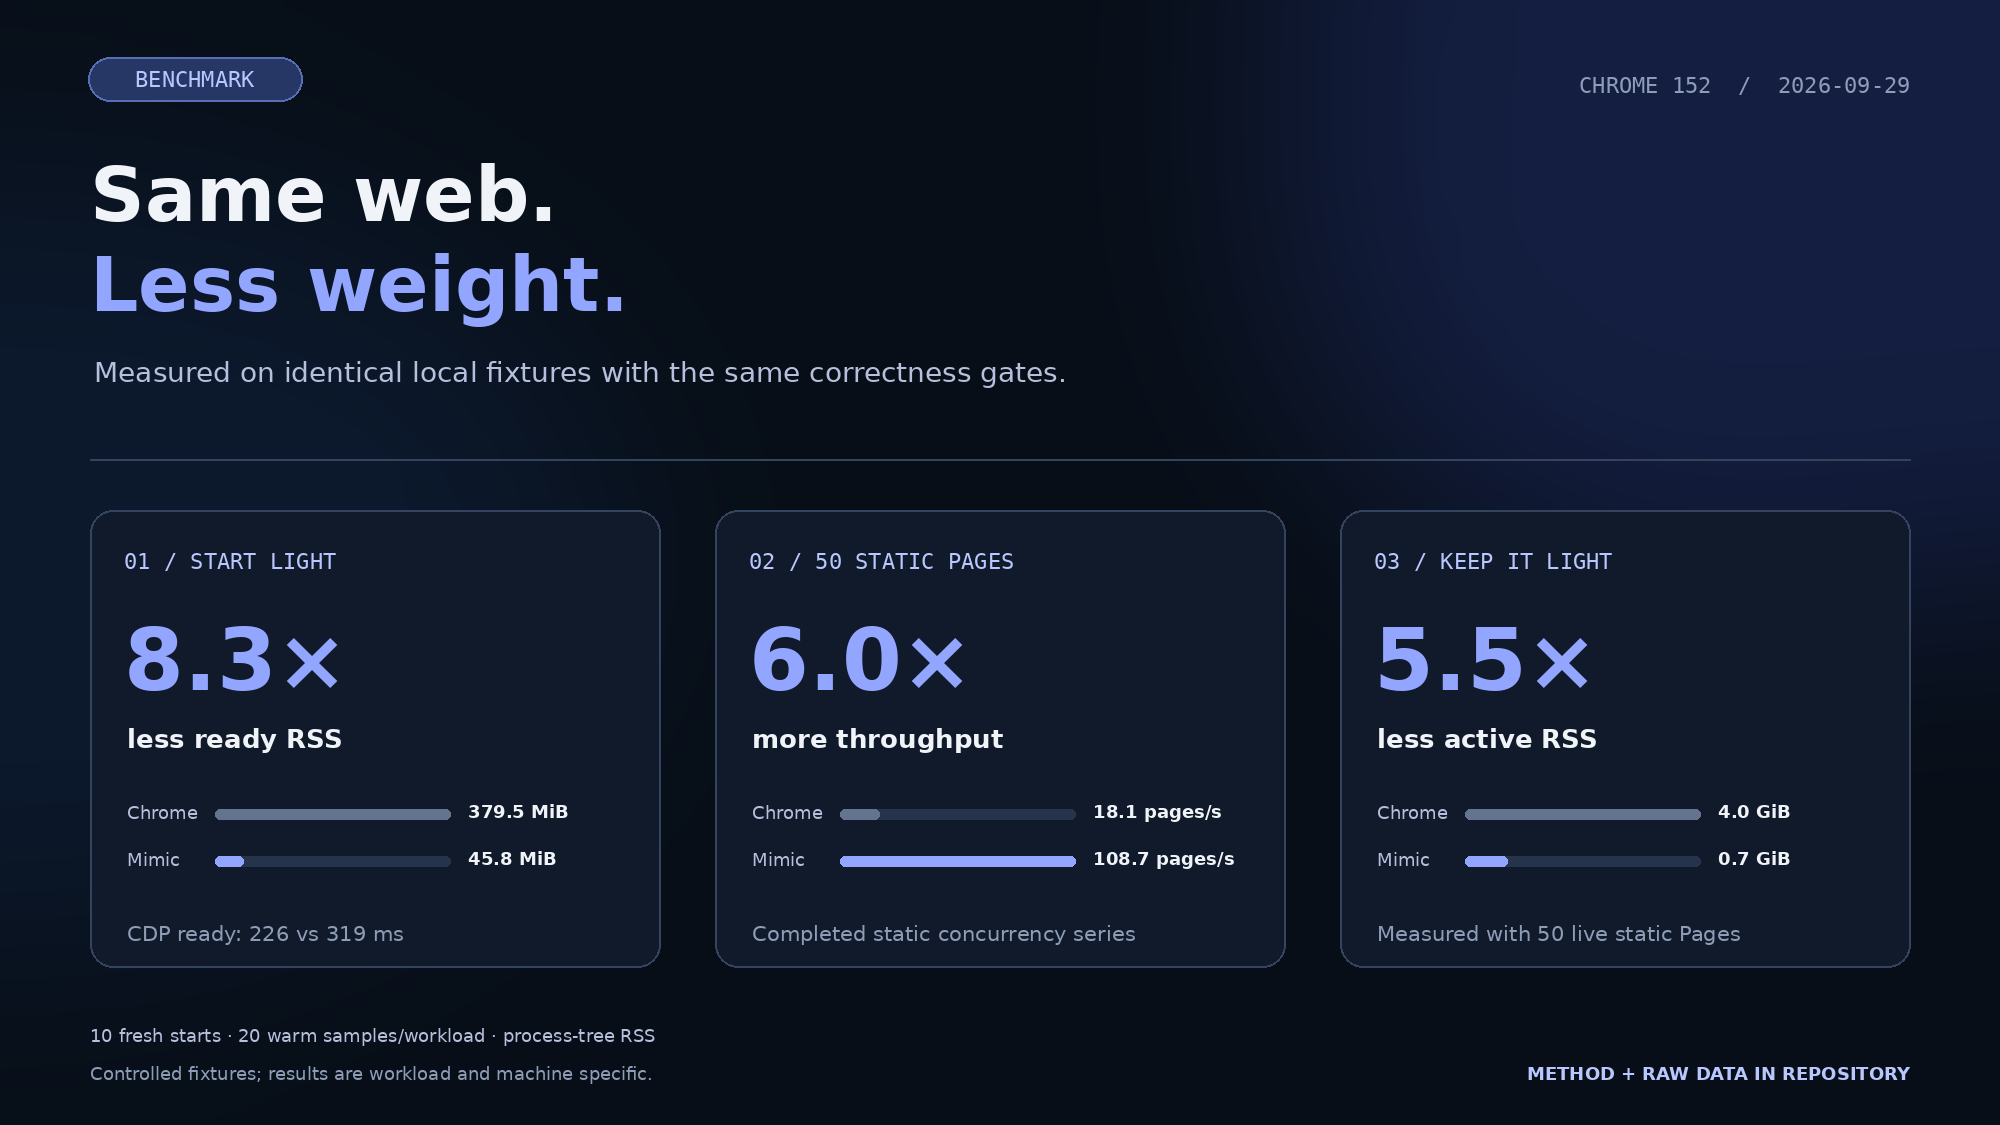
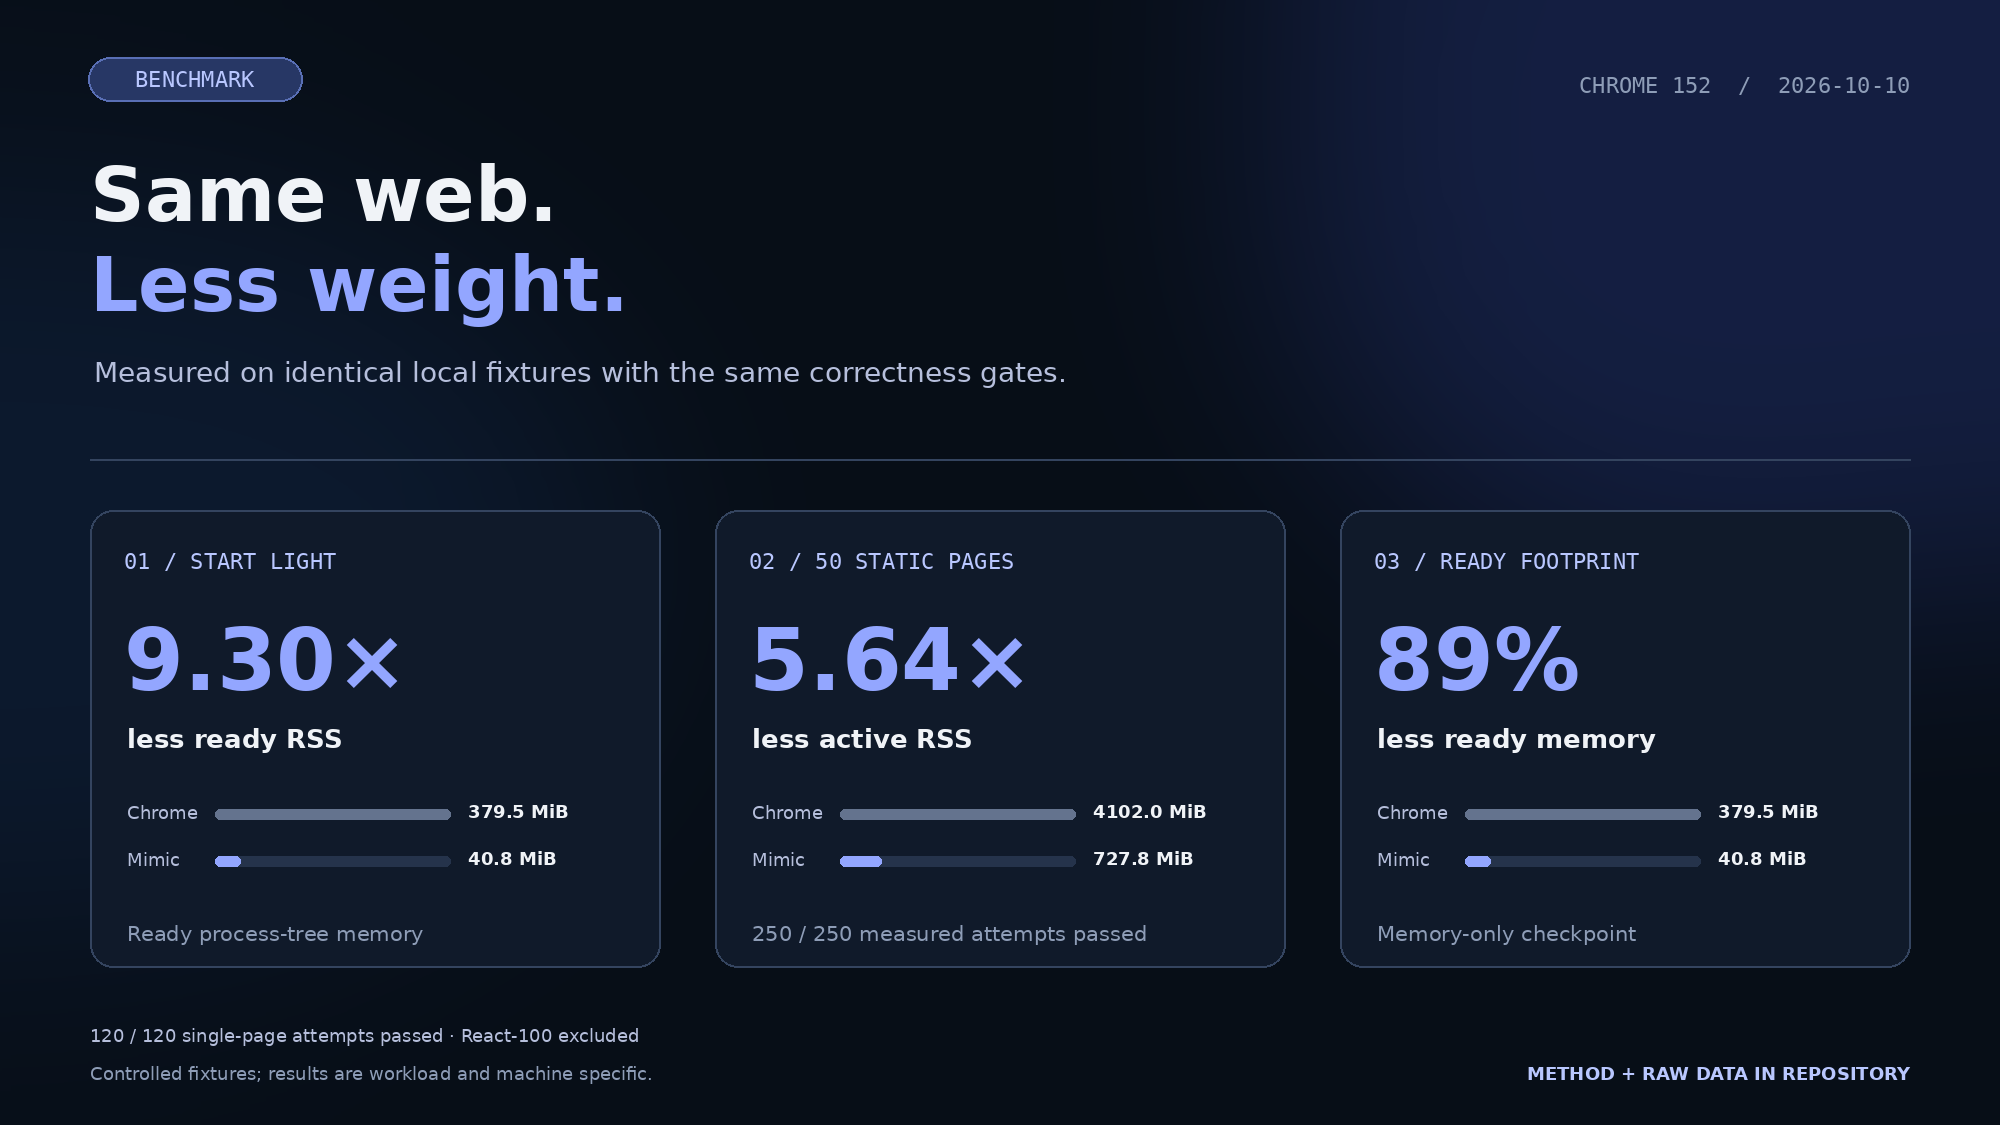
docs(benchmarks): replace current claims across public surfaces

diff --git a/tools/performance/benchmark_story.py b/tools/performance/benchmark_story.py
@@ -1,6 +1,6 @@
 """Render the README benchmark image from a completed benchmark checkpoint.
 
-Only raw.json and summary.json supply measurements. The visual follows the
+Only checkpoint JSON supplies measurements. The visual follows the
 Mimic site's navy, periwinkle and restrained comparison-bar design.
 """
 
@@ -98,7 +98,10 @@ def comparison_bar(draw, x, y, width, mimic_value, chrome_value, font_set, unit)
 
 
 def render(checkpoint, output):
-    raw, summary = validate_checkpoint(checkpoint)
+    memory_path = checkpoint / "public-results.json"
+    memory = load_json(memory_path) if memory_path.exists() else None
+    if memory is None:
+        raw, summary = validate_checkpoint(checkpoint)
     fs = fonts()
     canvas = Image.new("RGB", (2000, 1125), BG)
     glow = Image.new("RGBA", canvas.size, (0, 0, 0, 0))
@@ -108,17 +111,30 @@ def render(checkpoint, output):
     canvas = Image.alpha_composite(canvas.convert("RGBA"), glow.filter(ImageFilter.GaussianBlur(145))).convert("RGB")
     draw = ImageDraw.Draw(canvas)
 
-    date = raw["metadata"]["date"][:10]
-    mimic_ready = startup(raw, "mimic", "cdp_ready_ms")
-    chrome_ready = startup(raw, "chrome", "cdp_ready_ms")
-    mimic_rss = startup(raw, "mimic", "rss_mib")
-    chrome_rss = startup(raw, "chrome", "rss_mib")
-    mc, cc = concurrency(summary, "mimic"), concurrency(summary, "chrome")
-    levels = sorted(set(mc) & set(cc))
-    if not levels:
-        raise ValueError("no common successful static concurrency level")
-    level = max(n for n in levels if n <= 50) if any(n <= 50 for n in levels) else max(levels)
-    mrow, crow = mc[level], cc[level]
+    if memory is not None:
+        date = memory["methodology"]["date"]
+        mimic_rss = memory["ready"]["final_mimic"]
+        chrome_rss = memory["ready"]["september_chrome"]
+        level = 50
+        row = next(
+            r for r in memory["density"]
+            if r["workload"] == "static" and r["n"] == level
+            and not r["failure"] and r["valid"] == r["attempts"]
+        )
+        mrow = {"rss_mib": row["active_rss_mib"]}
+        crow = {"rss_mib": row["september_chrome_rss_mib"]}
+    else:
+        date = raw["metadata"]["date"][:10]
+        mimic_ready = startup(raw, "mimic", "cdp_ready_ms")
+        chrome_ready = startup(raw, "chrome", "cdp_ready_ms")
+        mimic_rss = startup(raw, "mimic", "rss_mib")
+        chrome_rss = startup(raw, "chrome", "rss_mib")
+        mc, cc = concurrency(summary, "mimic"), concurrency(summary, "chrome")
+        levels = sorted(set(mc) & set(cc))
+        if not levels:
+            raise ValueError("no common successful static concurrency level")
+        level = max(n for n in levels if n <= 50) if any(n <= 50 for n in levels) else max(levels)
+        mrow, crow = mc[level], cc[level]
 
     draw.rounded_rectangle((88, 57, 302, 101), radius=22, fill="#273765", outline="#596fb5", width=2)
     text(draw, (195, 79), "BENCHMARK", fs["eyebrow"], BLUE_BRIGHT, anchor="mm")
@@ -131,14 +147,14 @@ def render(checkpoint, output):
     cards = [
         (
             90, 510, 660, 967, "01 / START LIGHT",
-            f"{chrome_rss / mimic_rss:.1f}×", "less ready RSS",
+            f"{chrome_rss / mimic_rss:.2f}×", "less ready RSS",
             mimic_rss, chrome_rss, "MiB",
-            f"CDP ready: {mimic_ready:.0f} vs {chrome_ready:.0f} ms",
+            "Ready process-tree memory" if memory else f"CDP ready: {mimic_ready:.0f} vs {chrome_ready:.0f} ms",
         ),
         (
             715, 510, 1285, 967, f"02 / {level} STATIC PAGES",
-            f"{mrow['throughput'] / crow['throughput']:.1f}×", "more throughput",
-            mrow["throughput"], crow["throughput"], "pages/s",
+            "" if memory else f"{mrow['throughput'] / crow['throughput']:.1f}×", "more throughput",
+            0 if memory else mrow["throughput"], 0 if memory else crow["throughput"], "pages/s",
             "Completed static concurrency series",
         ),
         (
@@ -148,6 +164,19 @@ def render(checkpoint, output):
             f"Measured with {level} live static Pages",
         ),
     ]
+    if memory is not None:
+        cards[1] = (
+            715, 510, 1285, 967, "02 / 50 STATIC PAGES",
+            f"{crow['rss_mib'] / mrow['rss_mib']:.2f}×", "less active RSS",
+            mrow["rss_mib"], crow["rss_mib"], "MiB",
+            f"{row['valid']} / {row['attempts']} measured attempts passed",
+        )
+        cards[2] = (
+            1340, 510, 1910, 967, "03 / READY FOOTPRINT",
+            f"{(1 - mimic_rss / chrome_rss) * 100:.0f}%", "less ready memory",
+            mimic_rss, chrome_rss, "MiB",
+            "Memory-only checkpoint",
+        )
     for x1, y1, x2, y2, heading, metric, label, mimic, chrome, unit, note in cards:
         draw.rounded_rectangle((x1, y1, x2, y2), radius=23, fill=SURFACE, outline=LINE, width=2)
         text(draw, (x1 + 34, y1 + 38), heading, fs["eyebrow"], BLUE_BRIGHT)
@@ -156,7 +185,7 @@ def render(checkpoint, output):
         comparison_bar(draw, x1 + 37, y1 + 292, 235, mimic, chrome, fs, unit)
         text(draw, (x1 + 37, y1 + 411), note, fs["small"], QUIET)
 
-    text(draw, (90, 1025), "10 fresh starts · 20 warm samples/workload · process-tree RSS", fs["tiny"], MUTED)
+    text(draw, (90, 1025), f"{memory['methodology']['single_valid']} / {memory['methodology']['single_attempts']} single-page attempts passed · React-100 excluded" if memory else "10 fresh starts · 20 warm samples/workload · process-tree RSS", fs["tiny"], MUTED)
     text(draw, (90, 1063), "Controlled fixtures; results are workload and machine specific.", fs["tiny"], QUIET)
     text(draw, (1910, 1063), "METHOD + RAW DATA IN REPOSITORY", fs["tiny_bold"], BLUE_BRIGHT, anchor="ra")
 
@@ -164,8 +193,10 @@ def render(checkpoint, output):
     canvas.save(output, optimize=True)
     receipt = {
         "checkpoint": date,
-        "raw_sha256": hashlib.sha256((checkpoint / "raw.json").read_bytes()).hexdigest(),
-        "summary_sha256": hashlib.sha256((checkpoint / "summary.json").read_bytes()).hexdigest(),
+        "source_sha256": {
+            path.name: hashlib.sha256(path.read_bytes()).hexdigest()
+            for path in ([memory_path] if memory else [checkpoint / "raw.json", checkpoint / "summary.json"])
+        },
         "generator_sha256": hashlib.sha256(Path(__file__).read_bytes()).hexdigest(),
         "output_sha256": hashlib.sha256(output.read_bytes()).hexdigest(),
         "concurrency_level": level,

diff --git a/benchmark/runs/14-memory-20261010/public-summary.md b/benchmark/runs/14-memory-20261010/public-summary.md
@@ -4,7 +4,7 @@ Current source with three memory changes, compared with the unchanged October 10
 
 The Windows Job Object runner, frozen local fixtures and 50 ms sampler are reused. Each workload has 20 measured warm single-Page attempts after one excluded warmup. Static, CPU and React density use 1/5/10/25/50/100 Pages, one excluded warmup per process, and max(5, ceil(20/N)) measured waves. Active Pages remain alive until the wave ends. Recovery is 250 ms. RSS sums working sets and can count shared pages more than once.
 
-The memory adapter has a 120 s wave guard rather than the full harness's 180 s guard; this guard was not reached. Per-Page CDP timeout remains 30 s. These memory observations do not replace the published full benchmark or establish general website compatibility.
+The memory adapter has a 120 s wave guard rather than the full harness's 180 s guard; this guard was not reached. Per-Page CDP timeout remains 30 s. This is the current public benchmark. Its scope is memory; it does not certify throughput, cold latency or general website compatibility.
 
 ## Retained-cost changes
 
@@ -16,14 +16,14 @@ These experiments identify retained costs in the current implementation; they ar
 
 ## Ready memory
 
-| Metric | October control Mimic | Final Mimic | September Chrome |
+| Metric | October control Mimic | Final Mimic | Chrome 152 reference |
 |---|---:|---:|---:|
 | rss MiB | 49.00 | 40.80 | 379.54 |
 | private MiB | 104.36 | 95.95 | 174.33 |
 
 ## Warm single-Page sampled peaks
 
-| Workload | Control RSS MiB | Final RSS MiB | September Chrome RSS MiB | Final private MiB | September Chrome private MiB |
+| Workload | Control RSS MiB | Final RSS MiB | Chrome 152 reference RSS MiB | Final private MiB | Chrome 152 reference private MiB |
 |---|---:|---:|---:|---:|---:|
 | static | 139.09 | 145.39 | 1211.70 | 172.38 | 599.05 |
 | cpu | 135.39 | 121.07 | 1403.35 | 163.77 | 778.80 |
@@ -34,9 +34,9 @@ These experiments identify retained costs in the current implementation; they ar
 
 ## Active density memory
 
-An absent historical Chrome comparison means its series was not completed successfully. Diagnostic and failed rows are not used as successful reference measurements.
+An absent Chrome reference comparison means its series was not completed successfully. Diagnostic and failed rows are not used as successful reference measurements.
 
-| Workload | Pages | Control RSS MiB | Final RSS MiB | September Chrome RSS MiB | Final private MiB | Final recovery RSS MiB | Valid / attempts |
+| Workload | Pages | Control RSS MiB | Final RSS MiB | Chrome 152 reference RSS MiB | Final private MiB | Final recovery RSS MiB | Valid / attempts |
 |---|---:|---:|---:|---:|---:|---:|---:|
 | static | 1 | 122.03 | 106.44 | 1210.81 | 150.71 | 88.05 | 20 / 20 |
 | static | 5 | 186.54 | 148.94 | 1373.74 | 206.35 | 85.48 | 25 / 25 |
@@ -72,6 +72,6 @@ React at 100 Pages is not certified: four measured waves passed, then a native a
 
 ## Provenance
 
[2 lines of base64/hex data omitted]
 
 Two subsequent alternating control/candidate pairs completed all ten measured React-100 waves for each binary. The native failure was not reproduced or attributed; these focused repeats do not replace the failed full memory-series record.

diff --git a/docs/performance/report.md b/docs/performance/report.md
@@ -5,20 +5,14 @@ establish a universal speedup over Chrome or complete website compatibility.
 
 ## Published measurements
 
-The [public benchmark checkpoint](../../benchmark/runs/13-rss-20260929/public-summary.md)
-uses an unchanged frozen harness. All 12 correctness gates and 360 measured
-single-Page attempts passed. The completed static 50-Page series measured:
+The [current public memory checkpoint](../../benchmark/runs/14-memory-20261010/public-summary.md) measured the following against frozen Chrome 152 reference observations:
 
 | Metric | Mimic | Chrome |
 | --- | ---: | ---: |
-| Active process-tree RSS | 748.11 MiB | 4102.04 MiB |
-| Throughput | 108.67 sessions/s | 18.09 sessions/s |
-| Ready process-tree RSS | 45.79 MiB | 379.54 MiB |
+| Active process-tree RSS, 50 static Pages | 727.78 MiB | 4102.04 MiB |
+| Ready process-tree RSS | 40.80 MiB | 379.54 MiB |
 
-The 100-Page schedule stopped at a conservative available-memory guard, not an
-out-of-memory event. Its stopped rows are not successful measurements. Later
-CPU and React density results are absent. The linked checkpoint retains the
-methodology, source and binary identity, sample scope and limitations.
+All 120 measured single-Page attempts passed. Static and CPU completed 100 Pages; React completed 50 Pages. React-100 failed in the final wave and is excluded from successful memory comparisons (2,810/2,910 density attempts valid). This memory-only checkpoint does not certify throughput or cold latency. The methodology retains exact binary and reference provenance.
 
 The [Wikipedia E2E reference](wikipedia-e2e-current.md) records the complete
 unchanged Playwright workflow and its acceptance criteria. A faster isolated

diff --git a/benchmark/README.md b/benchmark/README.md
@@ -1,10 +1,6 @@
 # Reproducible benchmark: Mimic V8 and Chrome 152
 
-Latest measured checkpoint: [September 29, 2026 summary](runs/13-rss-20260929/public-summary.md)
-and [full measured report](runs/13-rss-20260929/report.md). The headline uses
-the completed static 50-Page series; the report shows the status of every
-attempted level.
-The original `results/` baseline and earlier runs remain historical records.
+Current public checkpoint: [October 10, 2026 memory results](runs/14-memory-20261010/public-summary.md). The completed static 50-Page series and ready RSS supply the public memory claims. React-100 failed and is excluded; throughput and cold latency were not re-certified. Frozen archives remain evidence, not current benchmark claims.
 
 From the repository root on Windows x64:
 
@@ -94,13 +90,13 @@ the English reporting variant with the same calculations.
 
 Generate the README benchmark image from a completed, integrity-checked
 checkpoint. The image follows the website palette; every displayed number is
-read from `raw.json` and `summary.json`, whose hashes are validated against the
-checkpoint manifest. The default output path stays the same for future
+read from the current checkpoint. Memory checkpoints use `public-results.json`;
+full checkpoints validate `raw.json` and `summary.json` against their manifest. The default output path stays the same for future
 checkpoints, so the README always uses the newly generated image:
 
 ```powershell
 .build/benchmark-venv/Scripts/python.exe tools/performance/benchmark_story.py `
-  benchmark/runs/13-rss-20260929
+  benchmark/runs/14-memory-20261010
 ```
 
 The generator also writes `docs/assets/benchmark-story.receipt.json` with

diff --git a/README.md b/README.md
@@ -100,9 +100,11 @@ mimic --profile shop
 
 ## Benchmarks
 
+![Current memory benchmark](docs/assets/benchmark-story.png)
+
 The October 10, 2026 memory checkpoint used **9.30× less ready RSS**
 (40.80 vs. 379.54 MiB) and **5.64× less active RSS** at 50 static Pages
-(727.78 vs. 4,102.04 MiB), compared with saved September 29 Chrome 152
+(727.78 vs. 4,102.04 MiB), compared with frozen Chrome 152 reference
 measurements on the same machine. All 120 measured single-Page attempts passed.
 Static and CPU completed 100-Page series; React completed 50 Pages. The React-100
 series failed in its last wave (native access violation) and is excluded from
@@ -112,7 +114,6 @@ Snapshot bytecode clearing traded approximately 7% static batch throughput for
 lower memory in a separate paired diagnostic.
 
 [Current memory results and methodology](benchmark/runs/14-memory-20261010/public-summary.md) ·
-[September full benchmark and throughput](benchmark/runs/13-rss-20260929/public-summary.md) ·
 [Reproduce](benchmark/README.md) ·
 [Current performance notes](docs/performance/report.md)
 

diff --git a/AGENTS.md b/AGENTS.md
@@ -198,3 +198,5 @@ the current behavioral reference.
 - Keep experimental rewrites, including Rust spikes, separate from the
   production implementation until they have been evaluated against equivalent
   correctness and workload requirements.
+
+- Replacing the public benchmark means updating every current presentation together: runtime README, benchmark entry point, performance summary, website home and comparison pages, charts/images, downloads and methodology links. Present only the latest measured checkpoint; remove previous checkpoint links and stale speed/CPU claims from current surfaces. A memory-only update publishes memory results only. Preserve frozen historical evidence and exact reference provenance in the current methodology; do not present archived results as current claims.

diff --git a/tools/release/README.md b/tools/release/README.md
@@ -173,3 +173,7 @@ published tag can retry qualification without replacing any release.
 
 The helper is read-only unless `--execute` is explicitly supplied in official
 runtime CI.
+
+## Replacing the public benchmark
+
+Replacing the public benchmark means updating every current presentation together: runtime README, benchmark entry point, performance summary, website home and comparison pages, charts/images, downloads and methodology links. Present only the latest measured checkpoint; remove previous checkpoint links and stale speed/CPU claims from current surfaces. A memory-only update publishes memory results only. Preserve frozen historical evidence and exact reference provenance in the current methodology; do not present archived results as current claims.

diff --git a/docs/getting-started.md b/docs/getting-started.md
@@ -18,8 +18,8 @@ No external-site result or performance claim is a product guarantee.
 The [reproducible Windows benchmark](../benchmark/README.md) compares the V8 backend
 with exact Chrome 152.0.7977.82 using local correctness-gated workloads, process-tree
 CPU/memory accounting and cold, warm and concurrent sessions. See the
-[latest measured checkpoint](../benchmark/runs/13-rss-20260929/public-summary.md)
-for results and limitations, or the [original baseline](../benchmark/results/report.md).
+[latest measured checkpoint](../benchmark/runs/14-memory-20261010/public-summary.md)
+for current memory results and limitations.
 
 ## Build and run
 
